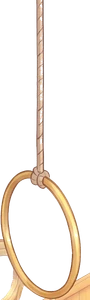
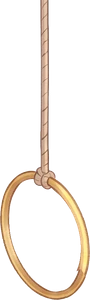
Build 474: Flight: hoops and the teacher's feather basket re-cut (Maria, IMG_9846/9847: «Криво вырезаны»): the hoops kept scraps of the wall at their bottom and the basket was sliced flat; now the ring is whole (rebuilt from its clean upper arc by mirroring across the ring's own axes, the knot as pa

Changed region(s): [[0.0, 0.0, 1.0, 1.0]]

diff --git a/js/game.js b/js/game.js
@@ -1,14 +1,14 @@
 // Magic school idle tycoon — v0.3: isometric campus with walking creatures.
-import './edit_guard.js?v=473';   // room editor (?edit only): in-memory storage, no cloud
+import './edit_guard.js?v=474';   // room editor (?edit only): in-memory storage, no cloud
 import {
   OFFLINE_CAP_SEC, MAX_DESKS, MAX_ITEM_LEVEL, MAX_TEACHER_LEVEL, MAX_TIME_LEVEL,
   CLASSES, SPECIES, NAMES, MISSIONS, WORLDS, WORLD, META,
-} from './data.js?v=473';
-import { EMOJI_RE, emojiImage, preloadEmoji, watchEmoji, emojiHtml } from './emoji.js?v=473';
-import { initMinigame } from './minigame.js?v=473';
-import { initChests } from './chests.js?v=473';
-import { initLore } from './lore.js?v=473';
-import { initAvatar } from './avatar.js?v=473';
+} from './data.js?v=474';
+import { EMOJI_RE, emojiImage, preloadEmoji, watchEmoji, emojiHtml } from './emoji.js?v=474';
+import { initMinigame } from './minigame.js?v=474';
+import { initChests } from './chests.js?v=474';
+import { initLore } from './lore.js?v=474';
+import { initAvatar } from './avatar.js?v=474';
 // mini-game «Зельеварка» (match-3, js/minigame.js): a pill on the main screen, its own overlay; the school keeps living under it
 const MG = initMinigame({ state: () => S, earn: (n) => earn(n), save: () => save(), stones: () => stones(), spendStones: (n) => stonesAdd(-n), toast: (t) => toast(t), fmt: (n) => fmt(n), emojiHtml, emojiImage,
   audioOut: () => { if (!sfxOn() || document.hidden) return null; const c = audio(); return c && c.state === 'running' ? { c, out: AOUT } : null; },
@@ -31,7 +31,7 @@ const LORE = initLore({ state: () => S, save: () => save(), emojiHtml, on: () =>
 const SAVE_KEY = WORLD === 1 ? 'magicschool.save.v2' : 'magicschool.save.v2.w' + WORLD;   // every world keeps its own save
 const saveKeyOf = (w) => (w === 1 ? 'magicschool.save.v2' : 'magicschool.save.v2.w' + w);
 const VERSION = '0.9';
-const BUILD = 473;   // keep equal to the ?v= number in index.html
+const BUILD = 474;   // keep equal to the ?v= number in index.html
 const $ = (s, r = document) => r.querySelector(s);
 const rnd = (a) => a[Math.floor(Math.random() * a.length)];
 
@@ -3581,7 +3581,7 @@ function drawWallDecor(c, id) {
 // furniture of a themed class: corners at the back, a bookcase by the left wall, small things in the free strip in front
 // ---- redesigned rooms: built-in, staged furnishing items (stage 0 = not bought, 1 = lvl 1-9, 2 = 10-24, 3 = 25-39, 4 = 40)
 const ITEM_IMS = {};
-function itemIm(n) { if (layCur && !layCur.n) layCur.n = n; let im = ITEM_IMS[n]; if (!im) { im = ITEM_IMS[n] = new Image(); im.src = `assets/parts/items/${n}.webp?v=${n === 'pot_hearth' ? 3 : 2}`; } return im.complete && im.naturalWidth ? im : null; }
+function itemIm(n) { if (layCur && !layCur.n) layCur.n = n; let im = ITEM_IMS[n]; if (!im) { im = ITEM_IMS[n] = new Image(); im.src = `assets/parts/items/${n}.webp?v=${n === 'pot_hearth' || n === 'fl_hoop' || n === 'fl_basket' ? 3 : 2}`; } return im.complete && im.naturalWidth ? im : null; }
 const stageOf = (lv) => (!lv ? 0 : lv < 10 ? 1 : lv < 25 ? 2 : lv < 40 ? 3 : 4);
 function itemDraw(n, x, y, h, o = {}) {   // a sprite standing on tile (x, y): bottom-centre on the floor point, lift = px above the floor
   const im = itemIm(n); if (!im) return null; const p = P(x, y), w = h * im.naturalWidth / im.naturalHeight, top = p.y + (o.down || 0) - (o.lift || 0) - h;
@@ -3771,7 +3771,7 @@ const ROOM_ART = {
       spots.forEach(([fx, fy], m) => { const hx = s.x0 + W * fx, hy = s.y0 + depth * fy; add(hx + 0.6, hy + 0.6, () => { const im = itemIm('fl_hoop'); if (!im) return; const p = P(hx, hy), top = p.y - rafter - 40, len = 64 + m * 10, h = len, w = h * im.naturalWidth / im.naturalHeight, sw = Math.sin(T * 1.1 + m * 1.7) * 0.07;
         ctx.save(); ctx.translate(p.x, top); ctx.rotate(sw); ctx.drawImage(im, -w / 2, 0, w, h); ctx.restore(); }); }); }
     // feathers -> the wicker basket of feather cushions in the back-left corner
-    const sf = stageOf(lv('feathers')); if (sf) { const k = [0, 0.7, 0.85, 1, 1.08][sf], fx = s.x0 + 0.75, fy = s.y0 + 0.75; add(fx, fy, () => { const r = itemDraw('fl_basket', fx, fy, 50 * k, { shadow: 1 }); if (!r) return;
+    const sf = stageOf(lv('feathers')); if (sf) { const k = [0, 0.7, 0.85, 1, 1.08][sf], fx = s.x0 + 0.75, fy = s.y0 + 0.75; add(fx, fy, () => { const r = itemDraw('fl_basket', fx, fy, 63 * k, { shadow: 1 }); if (!r) return;
       if (sf >= 4) { const u = (T * 0.15) % 1; emoji('🪶', r.x + Math.sin(T * 1.3) * 14, r.top - 20 + u * 40, 9); } }); }   // at 40 a feather floats down
     // windbell -> the brass wind bell hanging from the rafter by the first window, crystals swing and glint
     const sb = stageOf(lv('windbell')); if (sb) { const w0 = [...HERBS_WINS.values()].filter((wv) => wv.s0 === me && wv.side === 'y0').sort((a, b) => b.tm - a.tm)[0], bx = w0 ? w0.tm - 1.05 : s.x1 - 1.5, k = [0, 0.75, 0.88, 1, 1.05][sb];
@@ -6916,5 +6916,5 @@ if (EDIT) {   // room editor: js/editor.js gets the game's room tools
     get zoom() { return zoom; }, get scale() { return scale; }, get dpr() { return dpr; }, scroller, canvas,
     get layout() { return RLAY; }, setLayout, entries: () => LAY_ENT.slice(), walls: (th) => (LAY_WALLS[th] || []).slice(), layPos, layIm, texPart, thumb: (n, th) => { const im = n && (ITEM_IMS[n] || parts[th + '/' + n] || parts[th + '/iso_' + n] || LAY_IMS[n]); return im ? im.src : ''; },
     zoomAt: (z, x, y) => { setZoom(z, 0, 0, 0, 0); focusTile(x, y, false); } };
-  import('./editor.js?v=473').then((m) => m.initEditor(window.__EDIT_API)).catch((e) => { console.error(e); alert('Редактор не загрузился: ' + e.message); });
+  import('./editor.js?v=474').then((m) => m.initEditor(window.__EDIT_API)).catch((e) => { console.error(e); alert('Редактор не загрузился: ' + e.message); });
 }

diff --git a/index.html b/index.html
@@ -12,7 +12,7 @@
 <link rel="manifest" href="manifest.webmanifest">
 <link rel="apple-touch-icon" href="icons/icon-180.png?v=2">
 <link rel="icon" href="icons/icon-192.png?v=2">
-<link rel="stylesheet" href="style.css?v=473">
+<link rel="stylesheet" href="style.css?v=474">
 <script>/* iOS home-screen app: innerHeight / 100% / 100dvh are short by the status bar, a strip stayed at the bottom (her screenshots, builds 200-203); use the real screen height */
 (function(){function fit(){if(!(navigator.standalone||matchMedia('(display-mode: standalone)').matches))return;var h=Math.max(window.innerHeight,(Math.abs(window.orientation||0)===90?screen.width:screen.height));var r=document.documentElement;r.style.height=h+'px';if(document.body){document.body.style.height=h+'px';document.body.style.bottom='auto';}}fit();addEventListener('DOMContentLoaded',fit);addEventListener('resize',fit);addEventListener('orientationchange',function(){setTimeout(fit,300);});})();</script>
 </head>
@@ -72,6 +72,6 @@ setTimeout(function(){ if (window.__booted) return; var d=document.createElement
   d.querySelector('button').onclick=function(){ location.reload(); }; document.body.appendChild(d); }, 12000);
 if(!CanvasRenderingContext2D.prototype.roundRect){CanvasRenderingContext2D.prototype.roundRect=function(x,y,w,h){this.rect(x,y,w,h);};}
 </script>
-<script type="module" src="js/game.js?v=473"></script>
+<script type="module" src="js/game.js?v=474"></script>
 </body>
 </html>

diff --git a/js/emoji.js b/js/emoji.js
@@ -1,6 +1,6 @@
 // One emoji look on every device: emoji characters are replaced by bundled Twemoji pictures
 // (CC-BY 4.0, https://github.com/jdecked/twemoji), both in the page (DOM) and on the canvas.
-import { EMOJI_FILES } from './emoji-set.js?v=473';
+import { EMOJI_FILES } from './emoji-set.js?v=474';
 
 export const EMOJI_RE = /\p{Extended_Pictographic}(?:|\p{Extended_Pictographic}?|[\u{1F3FB}-\u{1F3FF}])*/gu;
 
